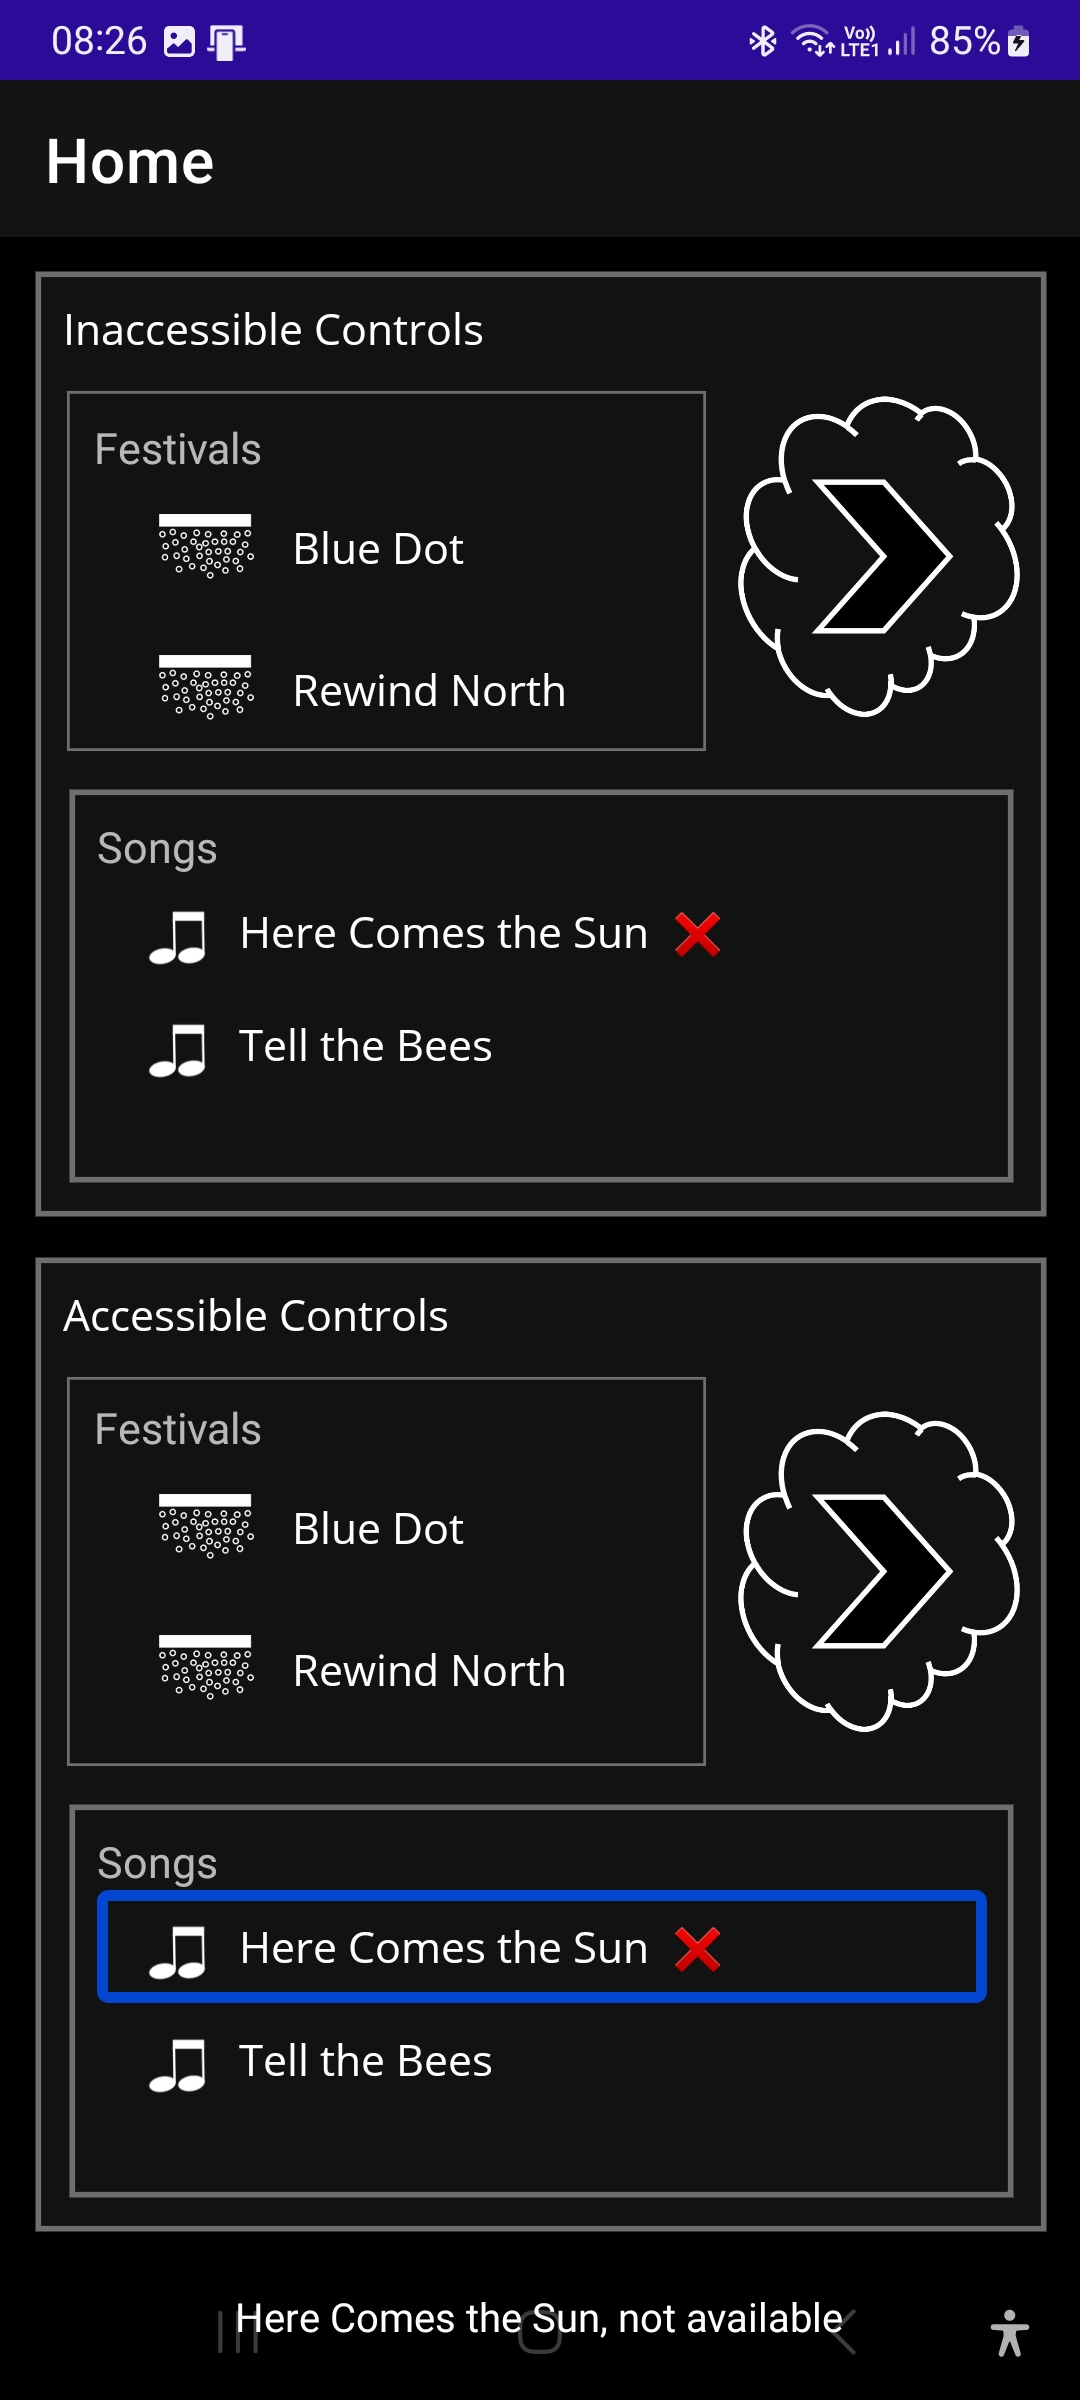
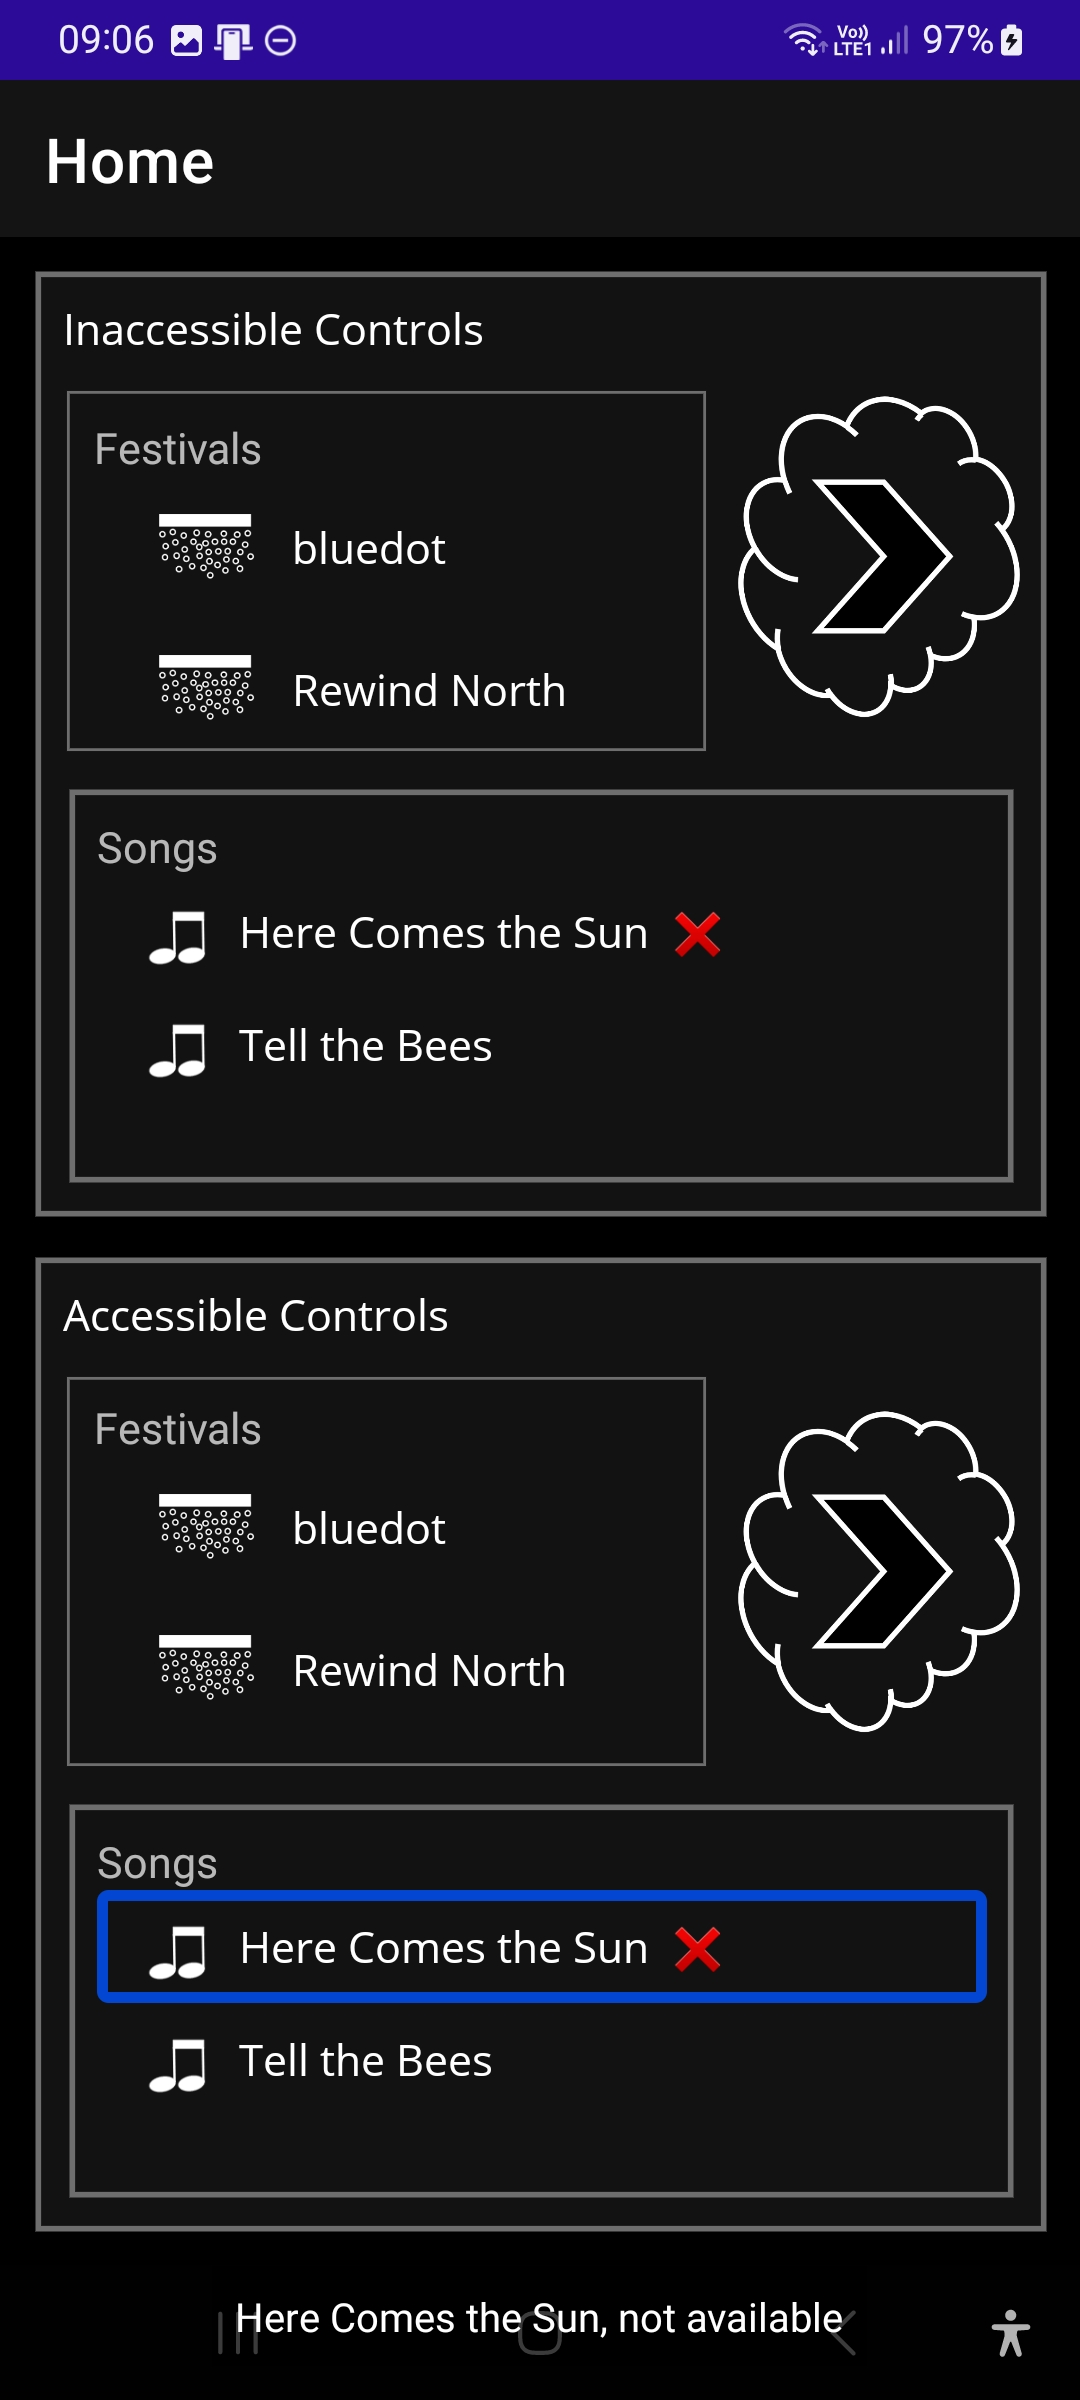
Update screenshots

diff --git a/AccessibleSampleMAUI/ResX/AppResources.Designer.cs b/AccessibleSampleMAUI/ResX/AppResources.Designer.cs
@@ -79,7 +79,7 @@ namespace AccessibleSample.ResX {
         }
         
         /// <summary>
-        ///   Looks up a localized string similar to Blue Dot.
+        ///   Looks up a localized string similar to bluedot.
         /// </summary>
         internal static string FestivalFirst {
             get {
